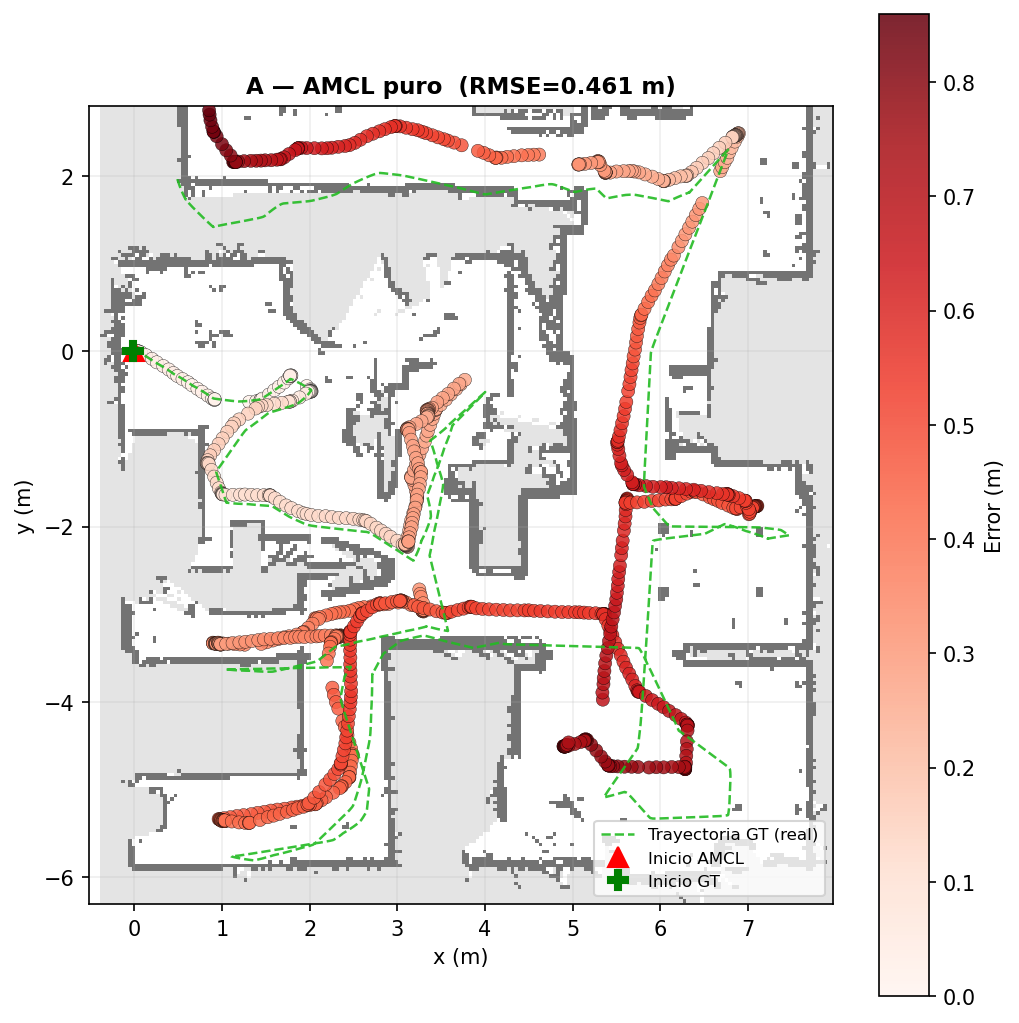
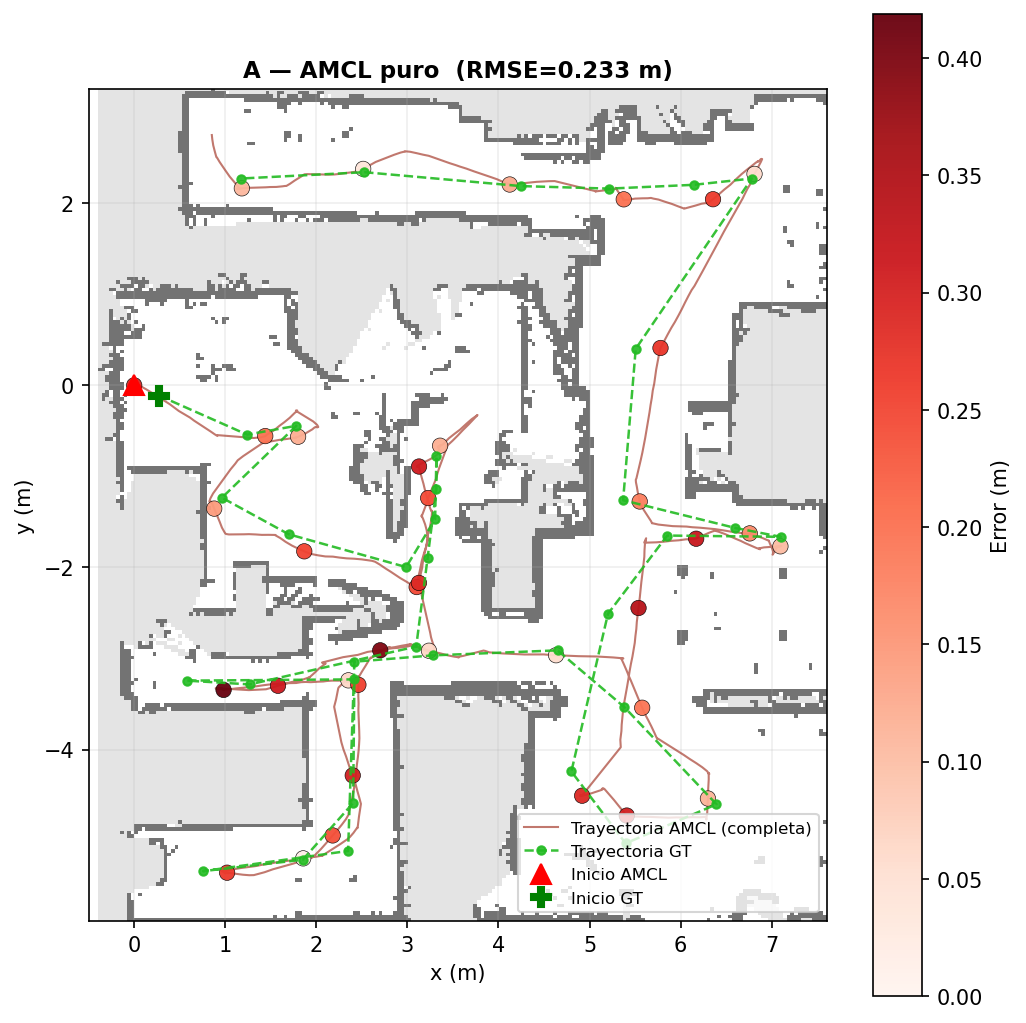
docs: actualiza README y figuras con los valores de la presentación

diff --git a/README.md b/README.md
@@ -156,11 +156,11 @@ El radiomap resultante muestra el gradiente de señal de cada AP sobre el mapa S
 
 ### Experimento base — condiciones normales
 
-El robot arranca en la posición correcta y recorre el entorno normalmente. Ambos modos convergen desde el inicio; la mejora del WiFi es marginal en este escenario.
+El robot arranca en la posición correcta y recorre el entorno normalmente. Con buena pose inicial el láser ya basta: es la cota inferior del aporte WiFi, que no interviene ni molesta.
 
 | | AMCL puro | AMCL + WiFi | Mejora |
 |---|:---:|:---:|:---:|
-| **RMSE** | 0.461 m | 0.453 m | +1.6% |
+| **RMSE** | 0.233 m | 0.238 m | −2.1% |
 | % poses < 1 m | 100% | 100% | — |
 
 | AMCL puro (A) | AMCL + WiFi (B) |
@@ -171,14 +171,25 @@ El robot arranca en la posición correcta y recorre el entorno normalmente. Ambo
 
 ---
 
-### Experimento kidnapped — robot desplazado
+### Experimento cold start — sin pose inicial
 
-El robot arranca convencido de estar en una posición incorrecta (4.0, −3.0). Sin WiFi, el AMCL **nunca** recupera la localización correcta porque el LiDAR no puede distinguir en qué habitación está. Con WiFi, converge en ~135 segundos.
+El robot arranca sin pose inicial: las partículas se reparten por todo el mapa. Partiendo de incertidumbre total, el WiFi descarta antes las hipótesis incorrectas, converge más rápido y de forma más estable.
 
 | | AMCL puro | AMCL + WiFi | Mejora |
 |---|:---:|:---:|:---:|
-| **RMSE** | 4.854 m | 2.698 m | **+44.4%** |
-| Convergencia (err < 1 m) | Nunca | ~135 s | — |
+| **RMSE** | 0.666 m | 0.581 m | **+12.8%** |
+| Convergencia (err < 1 m) | 11.8 s | 8.8 s | −3.0 s |
+
+---
+
+### Experimento kidnapped — robot desplazado
+
+El robot arranca convencido de estar en una posición incorrecta (4.0, −3.0). Sin WiFi, el AMCL **nunca** recupera la localización correcta porque el LiDAR no puede distinguir en qué habitación está. Con WiFi, relocaliza y ya no vuelve a perderse.
+
+| | AMCL puro | AMCL + WiFi | Mejora |
+|---|:---:|:---:|:---:|
+| **RMSE** | 4.934 m | 2.678 m | **+45.7%** |
+| % poses < 1 m | 0% | 40% | +40 pp |
 
 | AMCL puro — nunca converge (A) | AMCL + WiFi — converge ~135 s (B) |
 |:---:|:---:|
@@ -193,7 +204,7 @@ Casa simulada con dormitorio y cocina de geometría idéntica. Escenario diseña
 | | AMCL puro | AMCL + WiFi | Mejora |
 |---|:---:|:---:|:---:|
 | **RMSE** | 2.772 m | 1.271 m | **+54.2%** |
-| % poses < 1 m | 29% | 71% | +42 pp |
+| % poses < 1 m | 40% | 71% | +31 pp |
 
 Parámetros finales: `wifi_sigma=5.0 dBm`, `wifi_alpha=0.9`, `max_particles=8000`.
 
